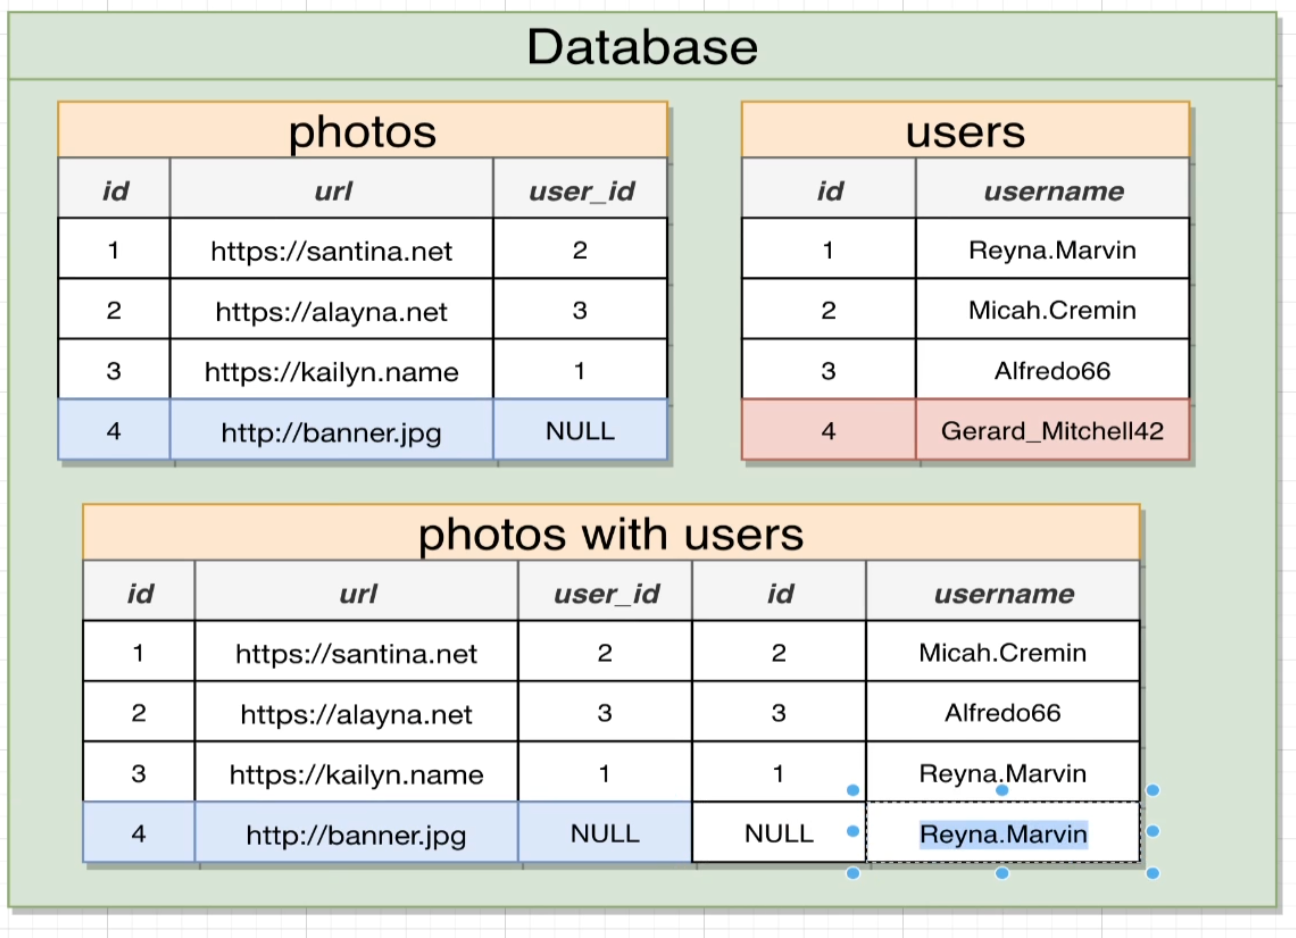
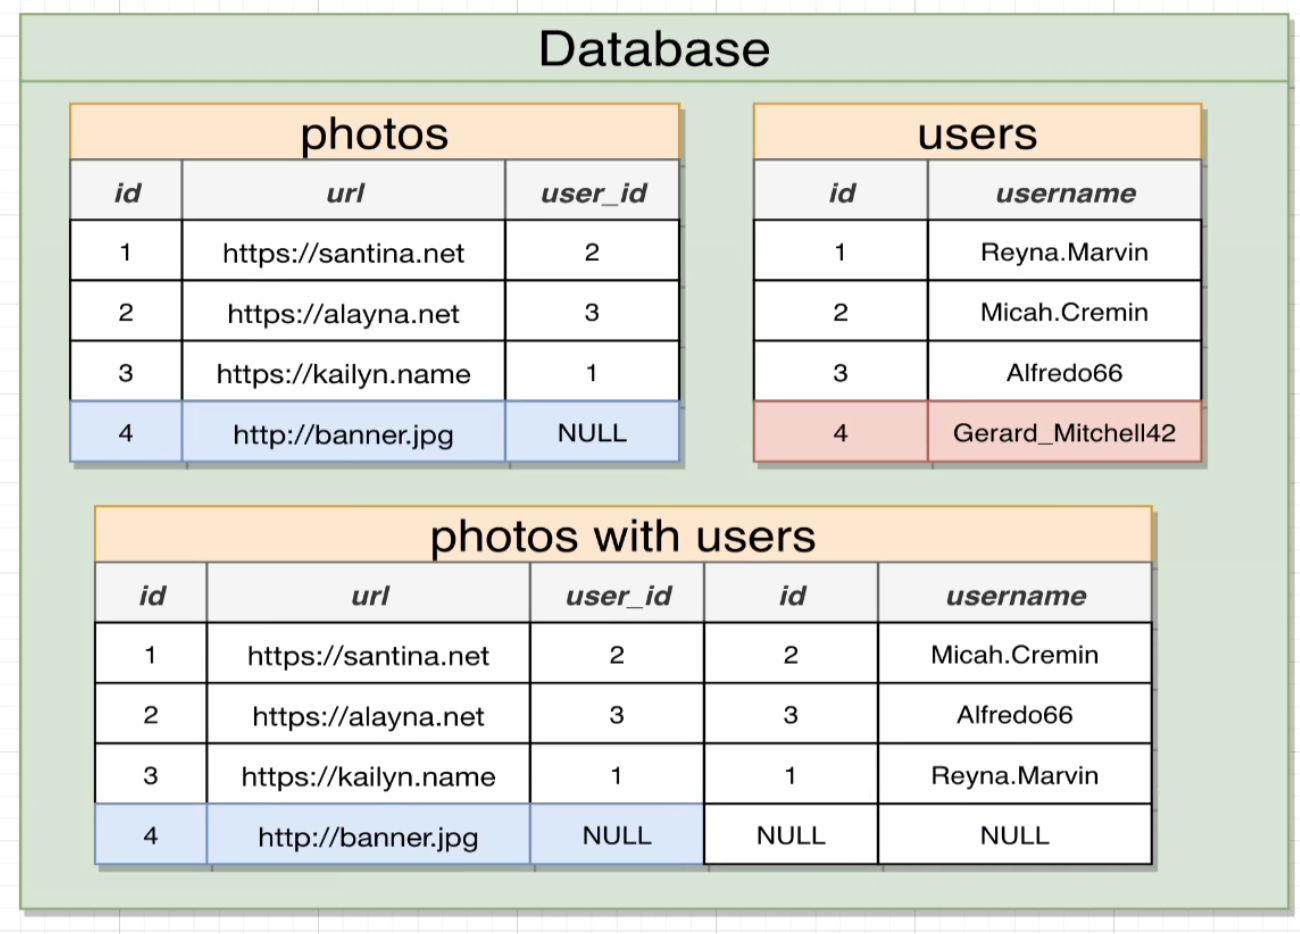
init

Changed region(s): [[0.0, 0.0, 1.0, 0.9936]]

diff --git a/README.md b/README.md
@@ -112,6 +112,8 @@
 
 [<img src="./pictures/right_outer_join.png" width="50%"/>](./pictures/right_outer_join.png)
 
+[<img src="./pictures/right_outer_join_2.png" width="50%"/>](./pictures/right_outer_join_2.png)
+
 ## Full Join
 
 [<img src="./pictures/full_join.png" width="50%"/>](./pictures/full_join.png)
